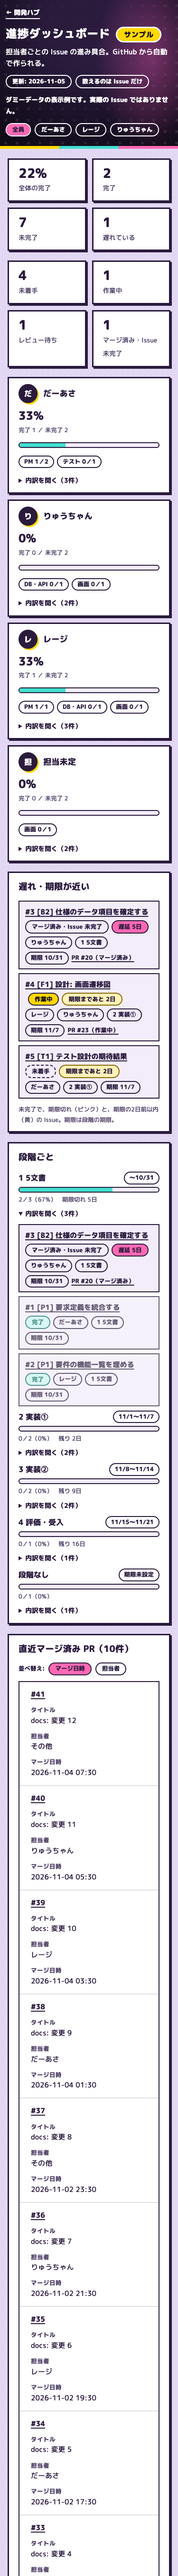
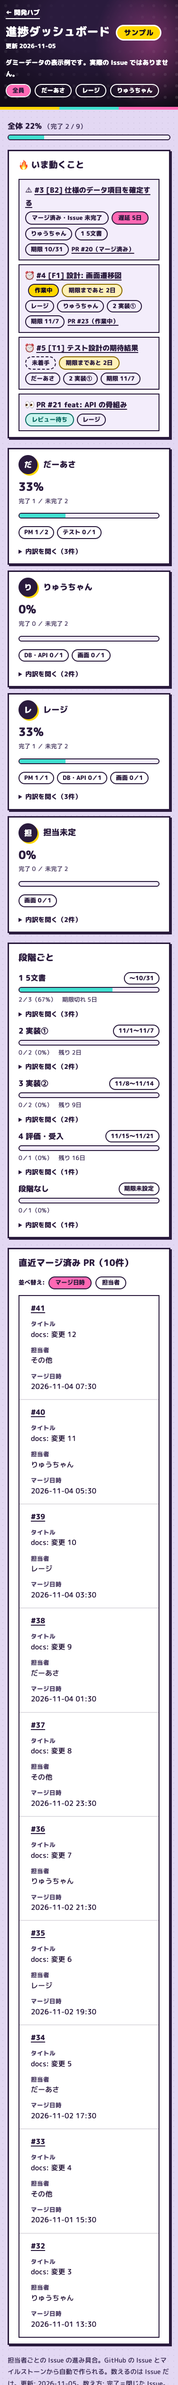
feat: 進捗ダッシュボードの上部をシンプルにし、「いま動くこと」を一番上に置く

diff --git a/scripts/test_build_progress.py b/scripts/test_build_progress.py
@@ -81,13 +81,13 @@ class T(unittest.TestCase):
             self.assertIn(">%s</button>" % n, out)
         self.assertIn('data-who="hiroki0023"', out)
         self.assertIn('id="al"', out)
-        self.assertIn("遅れ・期限が近い", out)
+        self.assertIn("🔥 いま動くこと", out)
 
     def test_no_alerts_shows_none(self):
         i = {"number": 1, "title": "t", "state": "open", "html_url": "https://github.com/a/b/issues/1",
              "milestone": None, "assignees": []}
         out = bp.render(bp.build_model([i], [], NAMES, dt.date(2026, 11, 5)), "x")
-        self.assertIn('<p class="none">なし</p>', out)
+        self.assertIn('<p class="none">いま急ぐものはありません 🎉</p>', out)
 
     def test_summary_shares_alert_logic(self):
         m = model()  # 今日 11/5
@@ -164,6 +164,44 @@ class T(unittest.TestCase):
         self.assertIn('data-k="t" aria-pressed="true">マージ日時', out)
         self.assertIn('data-k="a" aria-pressed="false">担当者', out)
         self.assertIn("@media(max-width:700px){#prs .sortbar{display:flex}}", out)
+
+    def test_header_short_and_overall_bar(self):
+        out = bp.render(model(), "2026-11-05 07:30 JST", sample=True)
+        head = out[out.index("<header"):out.index("</header>")]
+        self.assertIn("更新 07:30", head)
+        self.assertNotIn("数えるのは Issue だけ", head)
+        self.assertNotIn("Issue の進み具合", head)  # 説明文は一番下の注記へ
+        self.assertIn("ダミーデータの表示例", head)  # サンプルの札は --data のときだけ残る
+        self.assertNotIn("ダミーデータの表示例", bp.render(model(), "x")[:3000])
+        self.assertIn("全体 22% <span>（完了 2 / 9）</span>", out)
+        self.assertNotIn('class="sum"', out)  # 数字タイルは無い
+        self.assertNotIn(">未着手<", out.split("</header>")[1].split('id="al"')[0])
+        self.assertIn("数えるのは Issue だけ", out.split('<p class="note">')[1])
+
+    def test_now_section_contents_and_order(self):
+        out = bp.render(model(), "x")
+        al = out[out.index('id="al"'):out.index('class="pgrid"')]
+        self.assertIn("⚠ ", al)
+        self.assertIn("⏰ ", al)
+        self.assertIn("👀 ", al)
+        self.assertIn("PR #21", al)  # Ready の PR（Draft の #23 は出ない）
+        self.assertNotIn("PR #23 ", al.split("👀")[1])
+        self.assertIn('data-who="re-ji-tech0"', al)  # 作者で絞れる
+        self.assertIn("レージ", al.split("👀")[1])  # 作者は表示名
+        pos = [out.index(k) for k in ('id="al"', 'class="pgrid"', 'class="stg2"', 'id="prs"')]
+        self.assertEqual(pos, sorted(pos))  # いま動くこと → 担当者カード → 段階 → 直近 PR
+        self.assertTrue(out.index('id="al"') < out.index("全体 22%") + 400)
+
+    def test_now_section_merged_but_open_and_empty(self):
+        i = {"number": 1, "title": "t", "state": "open", "html_url": "https://github.com/a/b/issues/1",
+             "milestone": None, "assignees": [{"login": "Hiroki0023"}]}
+        p = {"number": 2, "title": "pr", "state": "closed", "html_url": "https://github.com/a/b/pull/2",
+             "pull_request": {"merged_at": "2026-11-04T01:00:00Z"}, "body": "Closes #1", "user": {"login": "Hiroki0023"}}
+        out = bp.render(bp.build_model([i, p], [], NAMES, dt.date(2026, 11, 5)), "x")
+        self.assertIn("✅ ", out)
+        self.assertIn("Issue を閉じるだけ", out)
+        empty = bp.render(bp.build_model([{**i, "assignees": [], "state": "closed"}], [], NAMES, dt.date(2026, 11, 5)), "x")
+        self.assertIn('<p class="none">いま急ぐものはありません 🎉</p>', empty)
 
     def test_empty_and_escape(self):
         self.assertIn("まだ Issue がありません", bp.render(model(data="progress-empty.json"), "x"))
